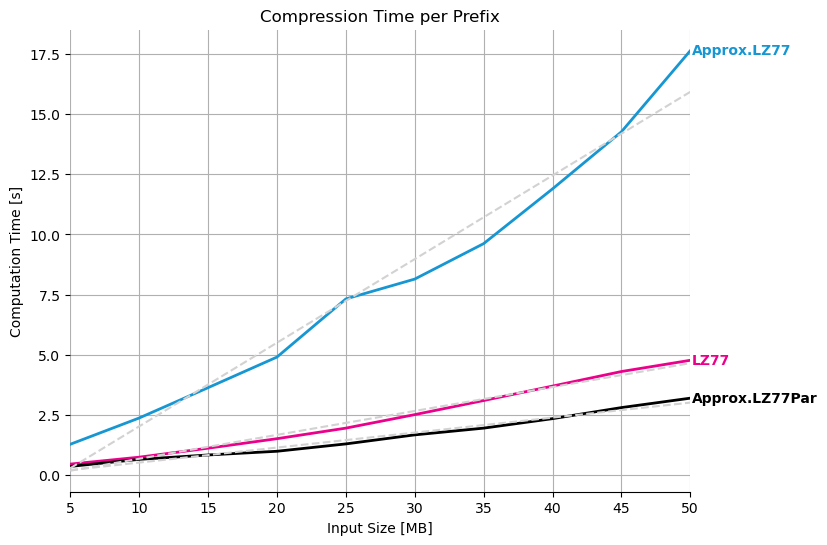
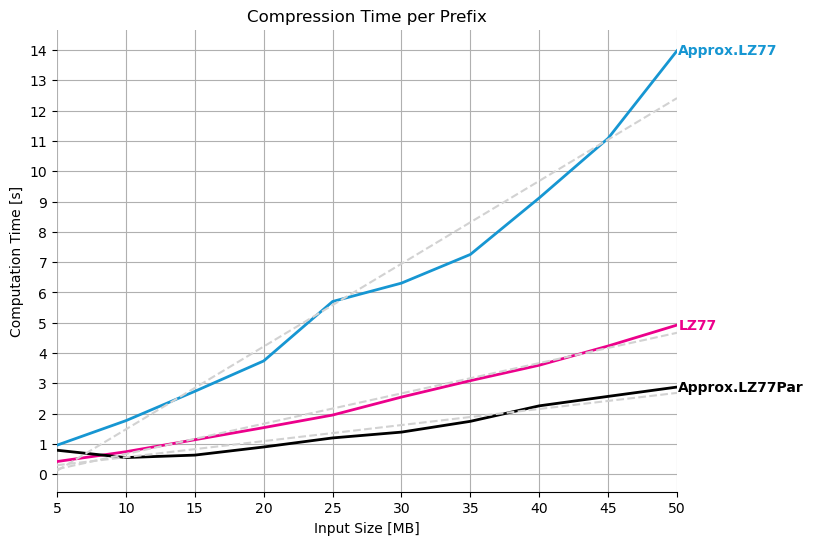
Updated Experiment-Data

diff --git a/report/plots_progressive.py b/report/plots_progressive.py
@@ -88,7 +88,7 @@ def main():
     ax.spines["bottom"].set_bounds(min(x_input_sizes), max(x_input_sizes))
     ax.set_xlim(min(x_input_sizes), max(x_input_sizes))
     ax.xaxis.set_ticks_position("bottom")    
-    ax.set_yticks(np.arange(0, max(y_comp_times)+1, 2.5))
+    ax.set_yticks(np.arange(0, max(y_comp_times)+1, 1))
     
     plt.savefig("plots/progressive.png", bbox_inches='tight')
     
@@ -117,7 +117,7 @@ def main():
     ax.spines["bottom"].set_bounds(min(x_input_sizes), max(x_input_sizes))
     ax.set_xlim(min(x_input_sizes), max(x_input_sizes))
     ax.xaxis.set_ticks_position("bottom")    
-    ax.set_yticks(np.arange(0, max(y_comp_times)+1, 2.5))
+    ax.set_yticks(np.arange(0, max(y_comp_times)+1, 1))
     ax.legend(loc = 'upper left')
     
     plt.savefig("plots/progressive_stack_seq.png", bbox_inches='tight')
@@ -146,7 +146,7 @@ def main():
     ax.spines["bottom"].set_bounds(min(x_input_sizes), max(x_input_sizes))
     ax.set_xlim(min(x_input_sizes), max(x_input_sizes))
     ax.xaxis.set_ticks_position("bottom")    
-    ax.set_yticks(np.arange(0, max(y_comp_times)+0.5, 0.5))
+    ax.set_yticks(np.arange(0, max(y_comp_times)+0.5, 0.25))
     ax.legend(loc = 'upper left')
     
     plt.savefig("plots/progressive_stack_par.png", bbox_inches='tight')

diff --git a/report/plots_speedup.py b/report/plots_speedup.py
@@ -94,7 +94,7 @@ def main():
     ax.spines["bottom"].set_bounds(min(x_input_sizes), max(x_input_sizes))
     ax.set_xlim(min(x_input_sizes), max(x_input_sizes))
     ax.xaxis.set_ticks_position("bottom")    
-    ax.set_yticks(np.arange(0, max(y_comp_times)+1, 2.5))
+    ax.set_yticks(np.arange(0, max(y_comp_times)+1, 1))
     
     plt.savefig("plots/progressive_speedup.png", bbox_inches='tight')
     
@@ -138,7 +138,7 @@ def main():
     ax.spines["bottom"].set_bounds(min(x_input_sizes), max(x_input_sizes))
     ax.set_xlim(min(x_input_sizes), max(x_input_sizes))
     ax.xaxis.set_ticks_position("bottom")    
-    ax.set_yticks(np.arange(0, max(y_comp_times)+1, 2.5))
+    ax.set_yticks(np.arange(0, max(y_comp_times)+1, 1))
     ax.legend(loc = 'upper left')
     
     plt.savefig("plots/progressive_speedup_stack.png", bbox_inches='tight')

diff --git a/report/reportToMarkdown.py b/report/reportToMarkdown.py
@@ -10,7 +10,7 @@ def main():
     print("|---------------|---------------|:---------------:|:---------------:|:---------------:|:---------------:|")
     
     
-    report_csv = csv.DictReader(open("report.csv", "r"))
+    report_csv = csv.DictReader(open("report_by_file.csv", "r"))
     
     for row in report_csv:
         print('|', end='')
